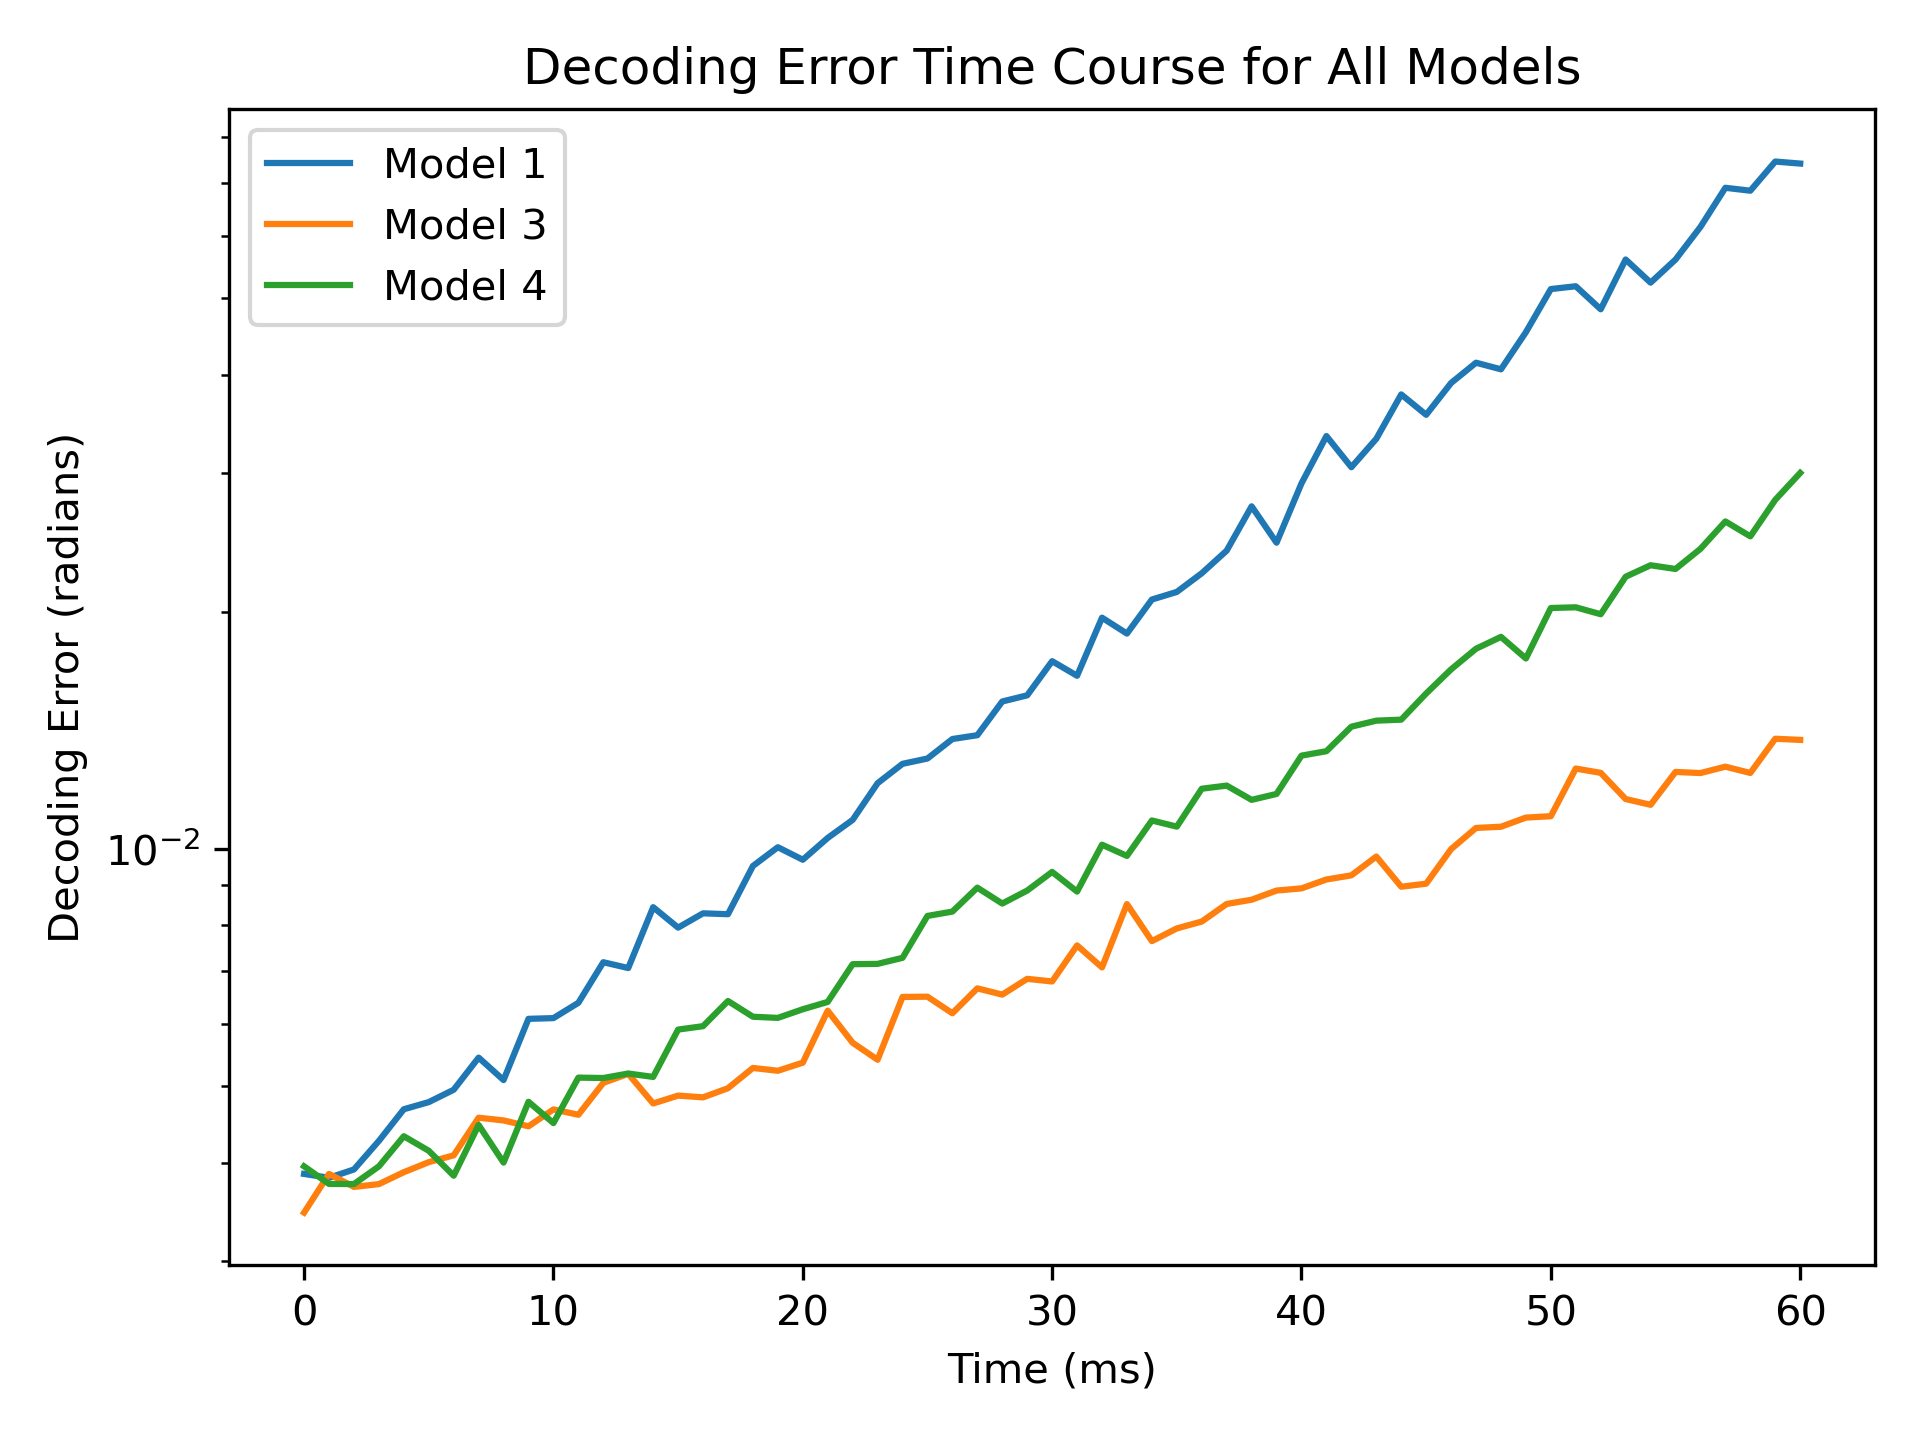
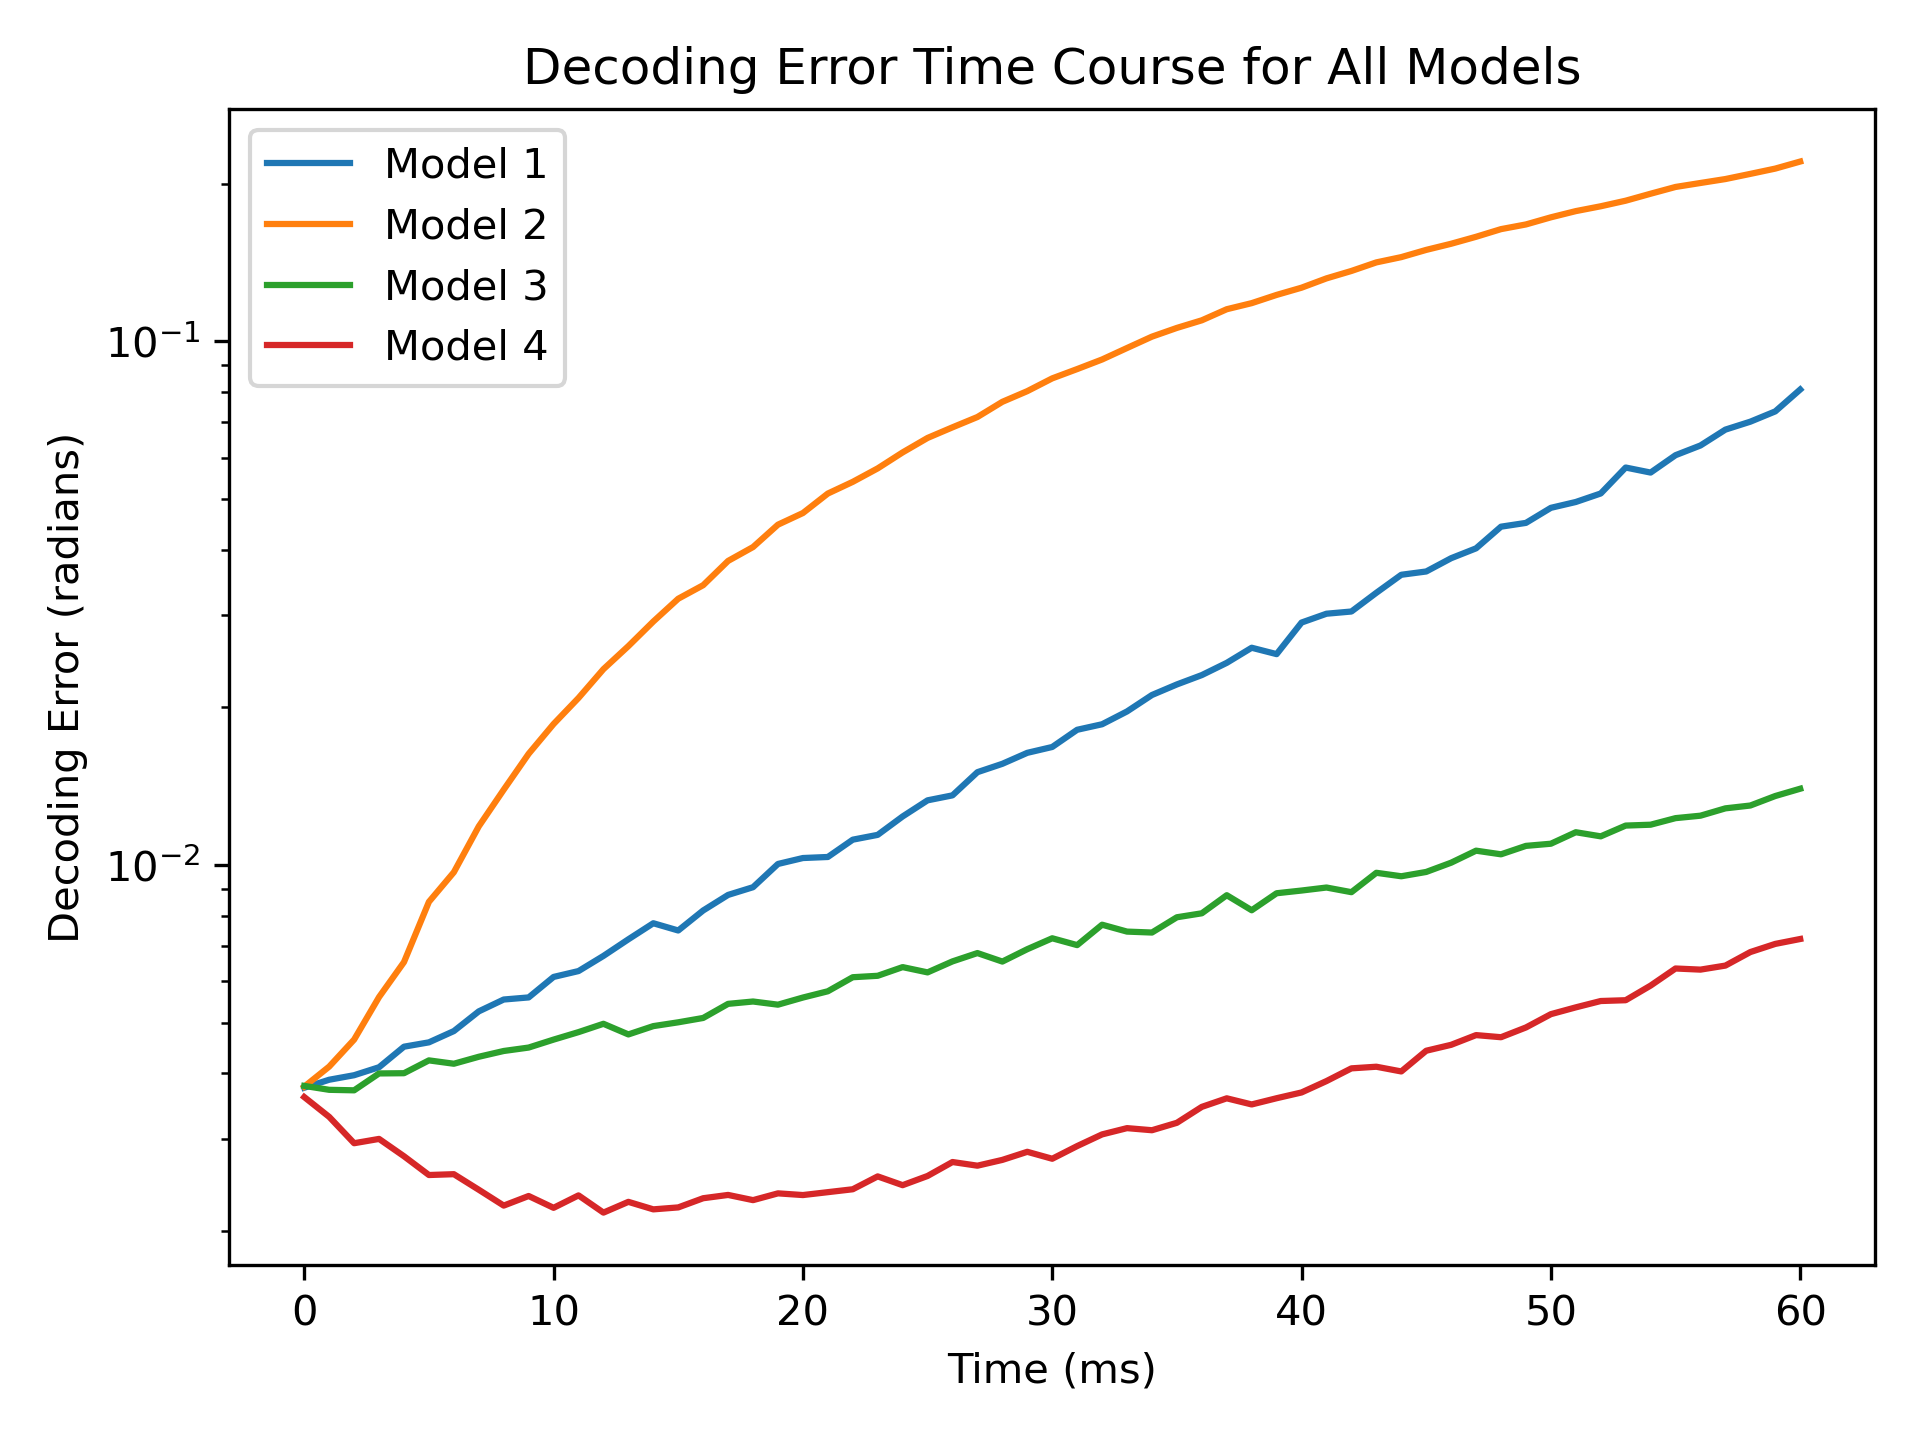
for question 6

diff --git a/q4.py b/q4.py
@@ -12,15 +12,15 @@ os.makedirs(result_folder, exist_ok=True)
 T = 0.06         # total simulation time in seconds (60 ms)
 noise_std = 1.0  # noise standard deviation
 theta = math.pi  # stimulus orientation
-trials = 100     # number of repeated trials
+trials = 1000     # number of repeated trials
 
 # List of models to simulate (1, 2, 3, 4)
-model_types = [1, 3, 4]
+model_types = [1, 2, 3, 4]
 
 plt.figure()
 for model_type in model_types:
     # Instantiate the model using default parameters
-    model = RNNModel(model_type=model_type, device='cpu')
+    model = RNNModel(model_type=model_type, alpha_prime=5, device='cpu')  # alpha_prime is only used by model 4
     m = model.m  # number of output neurons
     
     # Use the simulate function to run the dynamics

diff --git a/rnn.py b/rnn.py
@@ -83,6 +83,7 @@ class RNNModel(torch.nn.Module):
         
         elif self.model_type == 2:
             # Model 2: Random symmetric connectivity.
+            torch.manual_seed(41)
             tildeW = torch.randn((self.n, self.n), dtype=torch.float32, device=self.device)
             W_unscl = tildeW + tildeW.t()
             W = self.scale_W(W_unscl, self.alpha)
